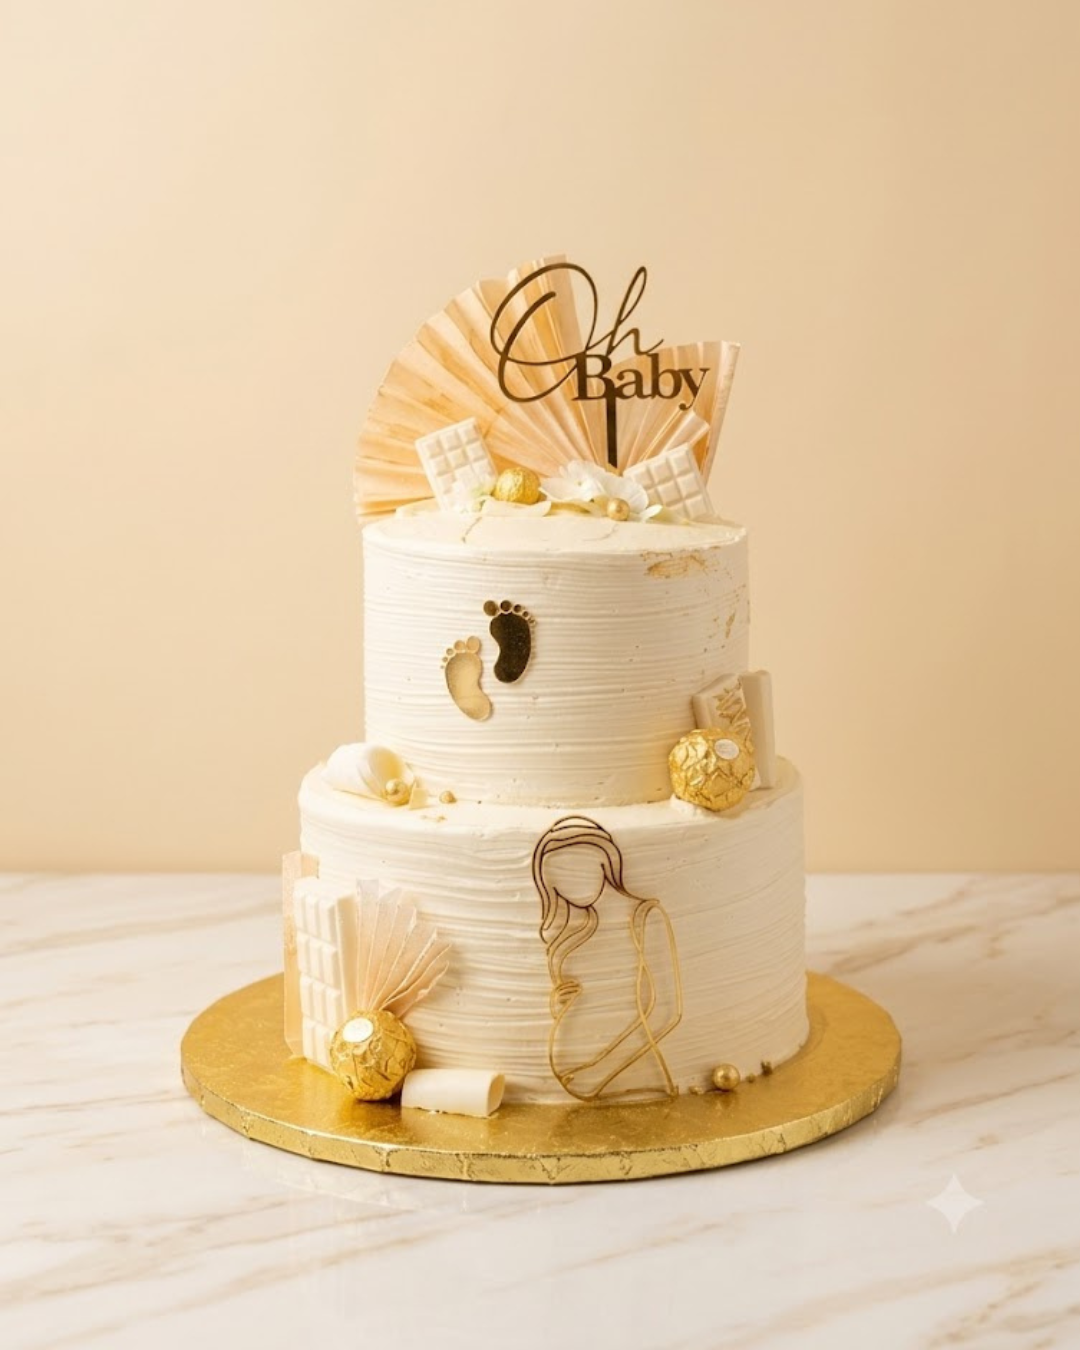
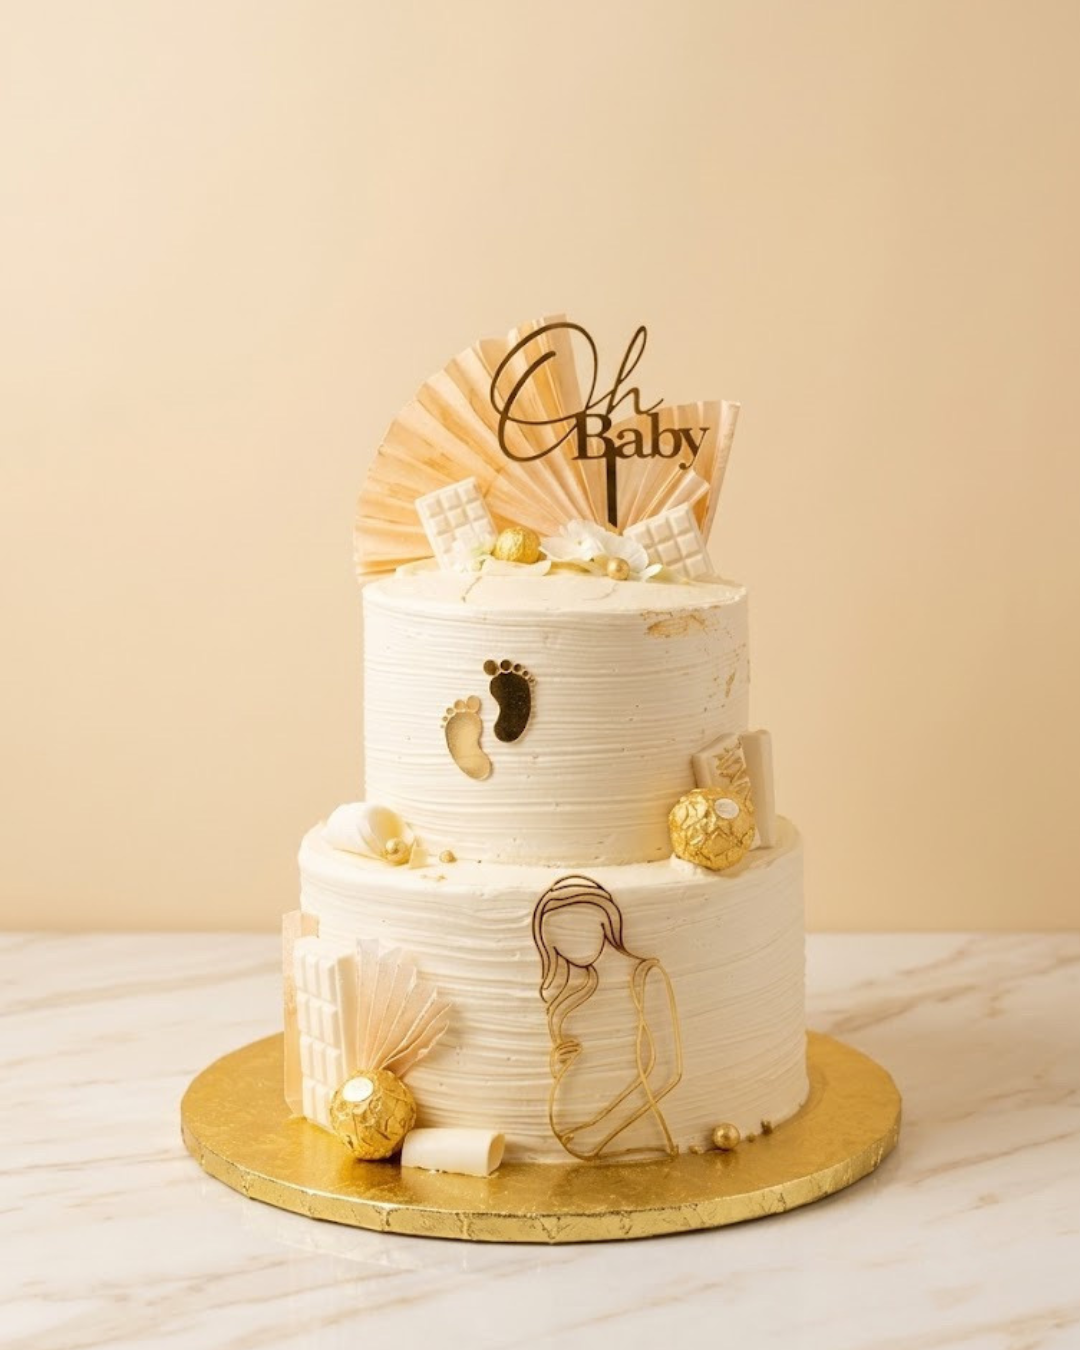
bugs

diff --git a/index.html b/index.html
@@ -1542,7 +1542,7 @@
     <div class="section-head reveal">
       <span class="eyebrow">The Sweet Spot</span>
       <h2>Planning Something Sweet?</h2>
-      <p>Build your order. <br>Choose your category → Select your size -> Pick your flavor → Make it yours!</p>
+      <p>Build your order -> Click "Add to Order" -> Click "Order Now"!</p>
     </div>
 
     <div class="pricing-box reveal">
